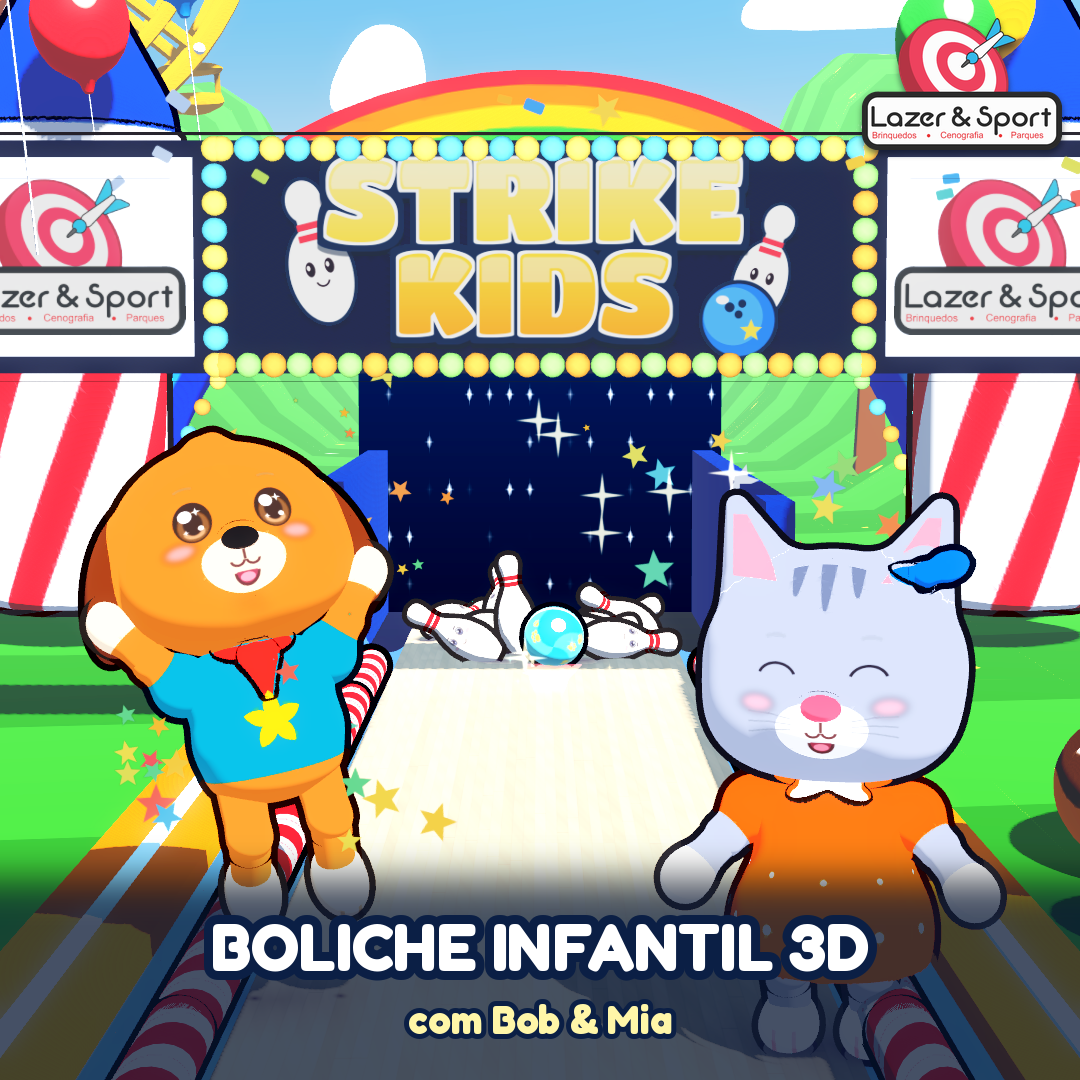
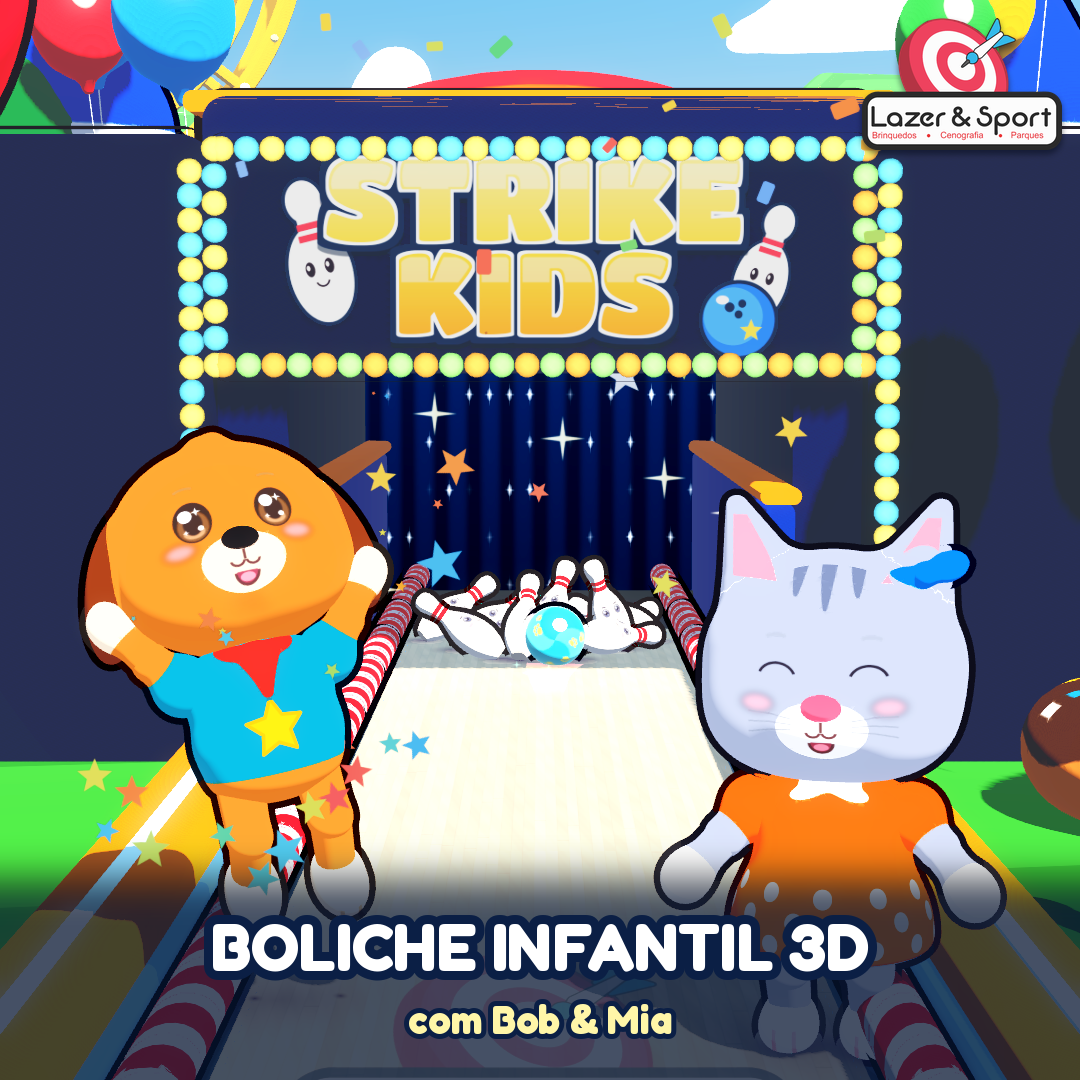
Marca Lazer & Sport só na abertura e num balão do cenário do Parque
- Tirada da pista, do selo no canto, do rodapé da atração, da tela final,
  do fundo do gabinete e do menu do operador
- Balão com a logo (sem fundo) só no Parque de Diversões
- Divulgação sem logo sobreposta (a marca vem da abertura e do balão)

Claude-Session: https://claude.ai/code/session_01HveBQ4z8rcguW85WegT8A3

diff --git a/strike-kids/tools/testes/montar_posteres.py b/strike-kids/tools/testes/montar_posteres.py
@@ -11,7 +11,8 @@ Gera em marketing/:
   post_quadrado_1080x1080.png     (feed do Instagram)
   personagens.png                 (apresentação do Bob e da Mia)
   cenarios.png                    (os 4 cenários; renders em <pasta>/cenario_<tema>.png)
-Todas levam a logo da Lazer & Sport (ui/marca/lazer_sport.png).
+A marca Lazer & Sport aparece como no jogo (balão do Parque nas imagens);
+nada de logo sobreposta.
 """
 import os
 import sys
@@ -50,20 +51,6 @@ def logo(larg):
     return lg.resize((int(larg), int(larg * lg.height / lg.width)), Image.LANCZOS)
 
 
-def marca(larg):
-    """Logo da Lazer & Sport com uma sombra macia (fica bem sobre qualquer fundo)."""
-    lg = Image.open(os.path.join(UI, "marca", "lazer_sport.png")).convert("RGBA")
-    lg = lg.resize((int(larg), int(larg * lg.height / lg.width)), Image.LANCZOS)
-    m = int(larg * 0.06)
-    out = Image.new("RGBA", (lg.width + 2 * m, lg.height + 2 * m), (0, 0, 0, 0))
-    sombra = Image.new("RGBA", lg.size, (0, 8, 24, 0))
-    sombra.putalpha(lg.getchannel("A").point(lambda v: int(v * 0.5)))
-    out.alpha_composite(sombra, (m, m + int(larg * 0.02)))
-    out = out.filter(ImageFilter.GaussianBlur(larg * 0.015))
-    out.alpha_composite(lg, (m, m))
-    return out
-
-
 def vertical(caminho):
     img = Image.open(caminho).convert("RGBA").resize((1080, 1920), Image.LANCZOS)
     faixa(img, -60, 520, 120)
@@ -73,8 +60,6 @@ def vertical(caminho):
     texto_central(img, "BOLICHE INFANTIL 3D", 1560, 78)
     texto_central(img, "com BOB e MIA", 1660, 62, (255, 246, 168))
     texto_central(img, "5 sensores  ·  4 cenários  ·  1 ou 2 jogadores", 1760, 38)
-    mc = marca(190)
-    img.alpha_composite(mc, (1080 - mc.width - 10, 1920 - mc.height - 6))
     img.convert("RGB").save(os.path.join(SAIDA, "poster_vertical_1080x1920.png"))
 
 
@@ -84,8 +69,6 @@ def horizontal(caminho):
     # o letreiro do jogo (STRIKE KIDS em cima dos pinos) já é o logo da cena
     texto_central(img, "BOLICHE INFANTIL 3D  ·  BOB & MIA", 890, 70)
     texto_central(img, "5 sensores  ·  4 cenários  ·  física de verdade  ·  replay do strike  ·  foto da criança", 990, 36, (255, 246, 168))
-    mc = marca(260)
-    img.alpha_composite(mc, (1920 - mc.width - 10, 10))
     img.convert("RGB").save(os.path.join(SAIDA, "banner_horizontal_1920x1080.png"))
 
 
@@ -97,8 +80,6 @@ def quadrado(caminho_vertical):
     faixa(q, 880, 240, 190)
     texto_central(q, "BOLICHE INFANTIL 3D", 905, 66)
     texto_central(q, "com Bob & Mia", 995, 40, (255, 246, 168))
-    mc = marca(200)
-    q.alpha_composite(mc, (1080 - mc.width - 6, 6))
     q.convert("RGB").save(os.path.join(SAIDA, "post_quadrado_1080x1080.png"))
 
 
@@ -135,8 +116,6 @@ def personagens():
             dc.text(((750 - w) / 2, 640 + k * 46), l, font=f3, fill=(255, 255, 255), stroke_width=5, stroke_fill=ROXO)
         img.alpha_composite(card, (x0, 200))
     texto_central(img, "Mascotes originais  ·  modelados em 3D  ·  8 expressões  ·  jogam boliche de verdade", 1020, 34)
-    mc = marca(210)
-    img.alpha_composite(mc, (W - mc.width - 6, 6))
     img.convert("RGB").save(os.path.join(SAIDA, "personagens.png"))
 
 
@@ -162,8 +141,6 @@ def cenarios(pasta):
         lw = 380
         lt = lt.resize((lw, int(lw * lt.height / lt.width)), Image.LANCZOS)
         img.alpha_composite(lt, (x + 14, y + 8))
-    mc = marca(190)
-    img.alpha_composite(mc, ((W - mc.width) // 2, (H - mc.height) // 2 + 10))
     img.convert("RGB").save(os.path.join(SAIDA, "cenarios.png"))
 
 

diff --git a/strike-kids/tools/testes/montar_video.py b/strike-kids/tools/testes/montar_video.py
@@ -8,8 +8,8 @@ Depois de gravar os quadros com o diretor (tools/testes/video.gd):
     python3 tools/testes/montar_video.py <pasta_dos_quadros> <saida.mp4> [fps] [primeiro_quadro]
 
 Mistura a trilha (músicas + efeitos nos quadros exatos em que tocaram no
-jogo), acrescenta um cartão final com o logo do jogo e a marca Lazer & Sport
-e gera o MP4 (H.264 + AAC).
+jogo), acrescenta um cartão final com o logo do jogo e gera o MP4
+(H.264 + AAC). A marca Lazer & Sport vem da própria abertura do jogo.
 """
 import json
 import os
@@ -58,9 +58,6 @@ def mudar_tom(a, tom):
 
 def cartao_final(pasta, inicio, n, largura, altura):
     logo = Image.open(os.path.join(RAIZ, "ui", "logo.png")).convert("RGBA")
-    marca = Image.open(os.path.join(RAIZ, "ui", "marca", "lazer_sport.png")).convert("RGBA")
-    mw = int(min(largura, altura) * 0.3)
-    marca = marca.resize((mw, int(mw * marca.height / marca.width)), Image.LANCZOS)
     fonte = ImageFont.truetype(os.path.join(RAIZ, "fontes", "fredoka_700.ttf"), int(min(largura, altura) * 0.05))
     fonte2 = ImageFont.truetype(os.path.join(RAIZ, "fontes", "fredoka_600.ttf"), int(min(largura, altura) * 0.037))
     retratos = []
@@ -91,7 +88,6 @@ def cartao_final(pasta, inicio, n, largura, altura):
                             ("5 sensores  ·  4 cenários  ·  foto da criança  ·  replay", fonte2, 0.82)):
             w = d.textlength(txt, font=f)
             d.text(((largura - w) / 2, altura * y), txt, font=f, fill=(255, 255, 255), stroke_width=6, stroke_fill=(11, 31, 69))
-        img.alpha_composite(marca, ((largura - marca.width) // 2, int(altura * 0.87)))
         img.convert("RGB").save(os.path.join(pasta, "q%05d.jpg" % (inicio + i)), quality=93)
 
 

diff --git a/strike-kids/docs/DOCUMENTO_DO_JOGO.md b/strike-kids/docs/DOCUMENTO_DO_JOGO.md
@@ -67,7 +67,7 @@ acenar, andar, vitória (pulinhos), escolhido.
    brilho passa pela placa e entra "apresenta". Depois a câmera desce do
    céu até os mascotes (3 s).
 2. **Atração**: logo, botão "APERTE START" com volume, placa do recorde
-   (com a foto) e a logo Lazer & Sport no rodapé; Bob e Mia dançam; câmera
+   (com a foto); Bob e Mia dançam; câmera
    orbitando; de 9 em 9 s uma **jogada de demonstração** completa, e a cada
    demonstração o cenário muda (a atração mostra os 4).
 3. **START** → "QUANTOS VÃO JOGAR?" (igual ao Dragon Bowling): cartões
@@ -93,7 +93,7 @@ acenar, andar, vitória (pulinhos), escolhido.
    mascote → **máquina de pinos** (câmera baixinha na frente dos pinos).
 6. **Fim de jogo**: cartões com pontos, 1 a 3 estrelas, STRIKES/SPARES,
    VENCEU!/EMPATE!, NOVO RECORDE!, confete e fogos; botão "APERTE START
-   PARA JOGAR DE NOVO" e a logo Lazer & Sport.
+   PARA JOGAR DE NOVO".
 
 **Telas com cara de 3D** (`scripts/painel3d.gd` + `shaders/painel3d.gdshader`):
 placar, cartões, botões, faixas e avisos são placas com volume — frente em
@@ -101,12 +101,9 @@ degradê com verniz, filete de luz, lateral mais escura (espessura),
 contorno azul-marinho e sombra no chão, como os objetos do cenário.
 Desenhadas pixel a pixel no shader: nítidas de 720p a 4K.
 
-**Marca Lazer & Sport**, sempre sem fundo e de jeito sutil: imagem de
-inicialização e abertura, rodapé da atração, selo pequeno no canto durante
-a partida, tela final, menu do operador, **impressa na madeira** no meio da
-pista (como os logos das pistas de verdade) e num **balão** que flutua ao
-lado da pista (no espaço vira um planetinha com anel, no mar uma bolha),
-além das peças de divulgação. A logo foi
+**Marca Lazer & Sport**: só na imagem de inicialização e na **abertura**,
+e num **balão** (logo sem fundo) que flutua ao lado da pista no cenário do
+**Parque de Diversões**. Nenhuma outra tela ou objeto leva a marca. A logo foi
 redesenhada no dobro da resolução com bordas nítidas
 (`tools/arte/gerar_marca.py`).
 
@@ -181,8 +178,8 @@ Depois de cada bola, como num boliche de verdade:
 
 - **Caçapa**: paredes laterais acolchoadas com friso amarelo, cortina de
   veludo pregueada com estrelas, almofada de borracha embaixo.
-- **Gabinete da máquina** fechado por fora (laterais, teto e fundo com a
-  marca atrás) e duas **colunas** com faixas de lâmpadas dos lados do
+- **Gabinete da máquina** fechado por fora (laterais, teto e fundo) e duas
+  **colunas** com faixas de lâmpadas dos lados do
   letreiro STRIKE KIDS: de qualquer ângulo é uma máquina inteira.
 - **Salão atrás dos jogadores**: tapete, parede com o letreiro STRIKE KIDS
   aceso, sofás e retorno de bolas — quando a câmera vira para o mascote, o
